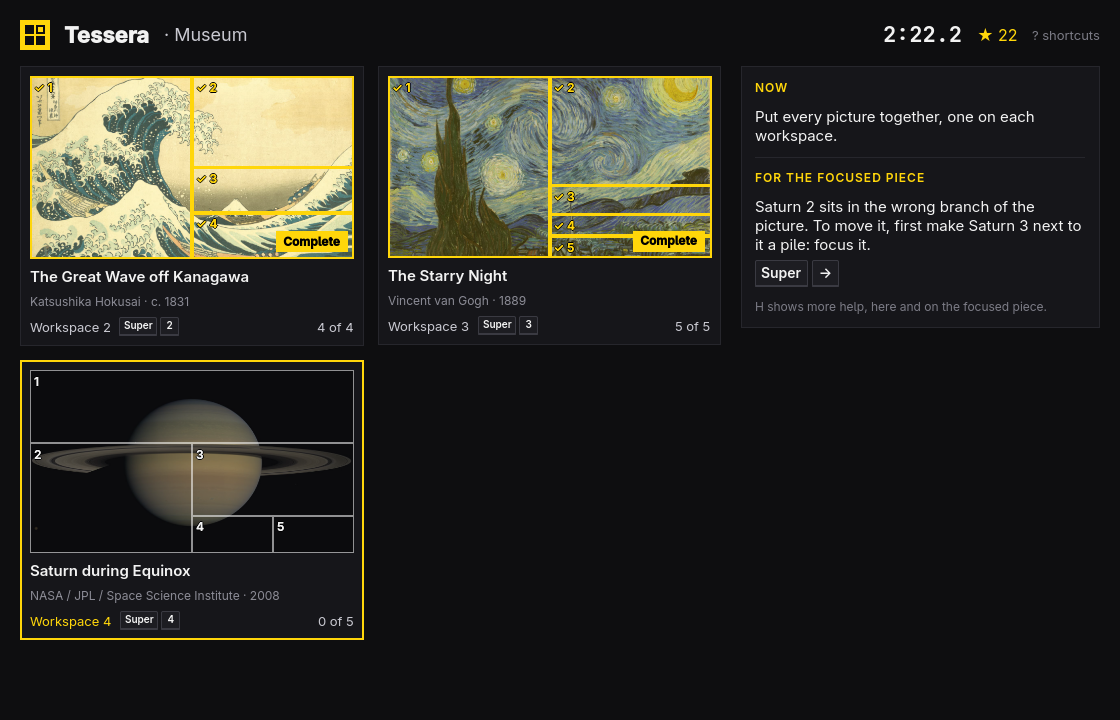
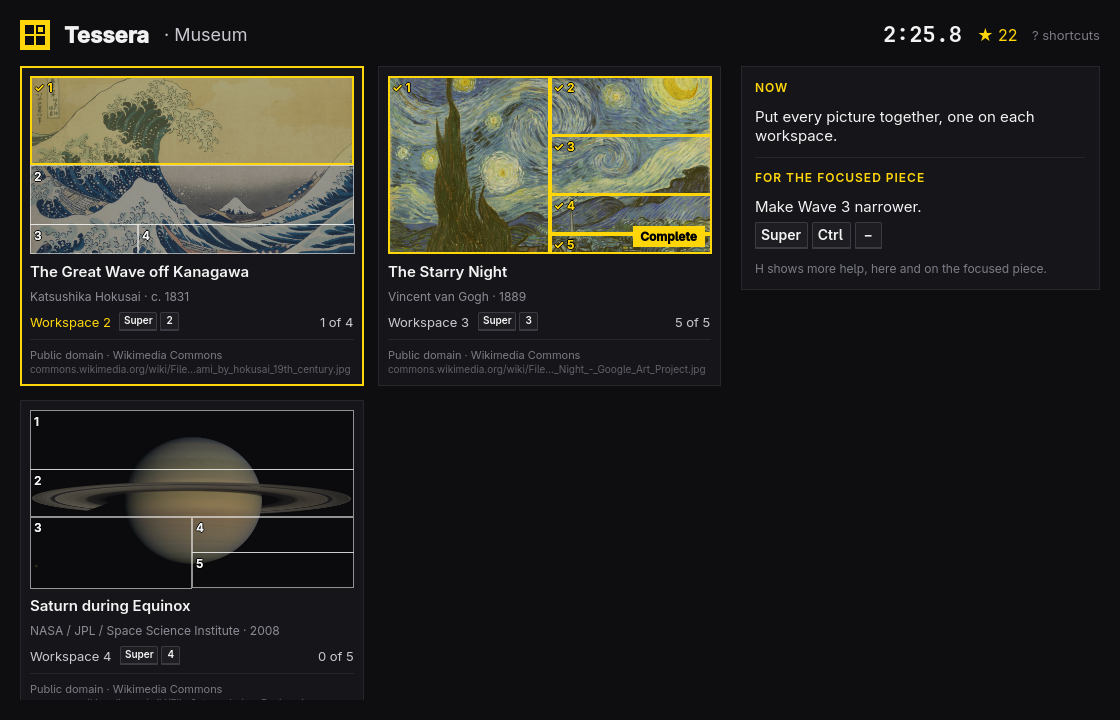
Document pictures, privacy and stats; release 0.2.0

diff --git a/README.md b/README.md
@@ -32,9 +32,23 @@ Lessons hold the answer back: first the goal, then what to do, then the keys,
 then why. Solve one before the keys show and you get three stars.
 
 Finish the lessons and the timed puzzles open: Gallery (two pictures),
-Exhibition (two pictures with turned splits, odd sizes and a pile) and
-Museum (three pictures, piles, the scratchpad and a stray piece from a
-picture that isn't there). Your best time for each is kept.
+Exhibition (two pictures with turned splits, odd sizes, a pile and the
+scratchpad) and Museum (three pictures, piles, the scratchpad and a stray
+piece from a picture that isn't there). Your best time for each is kept.
+
+Every Exhibition and Museum deal needs each family of moves at least once:
+swap, focus, a workspace switch, carrying a window to a workspace, turning
+a split, tiling a floating window, taking a pile apart, resizing both ways,
+and the scratchpad. The first split of the first picture is always turned
+against how dwindle deals it, a split each way is off centre, and that
+picture's own pieces arrive out of order; the tests check this over
+hundreds of seeds and play a dozen deals to the end to see every family
+turn up.
+
+**Practice weak spots** (in the menu once the lessons are done) deals a
+two-picture puzzle made of the moves your stats say you're least sure of:
+the two weakest families always, the others more often the weaker they are.
+Its keys show after a moment, or when you press H, so you get to try first.
 
 Every hint uses your own chords, read from `omarchy-menu-keybindings
 --print`, with Omarchy's defaults for anything you haven't bound.
@@ -45,6 +59,126 @@ The board's hint panel, and a strip on the focused piece, say what that piece
 needs right now: carry it to its workspace, tile it, pop it out of the pile,
 swap it towards its place, turn the split beside it, make it wider. Press H
 for more, Esc on a piece hides the strip.
+
+### Pictures from anywhere
+
+Press P in the menu to choose where pictures come from:
+
+| Source | What it is |
+|---|---|
+| Mixed (default) | The built-in works, museum art and your folder together |
+| Built-in | The five public-domain works compiled into Tessera; works offline |
+| Museums online | Public-domain art from the Art Institute of Chicago and the Met |
+| My folder | The JPEG, PNG and WebP files in one folder of yours |
+
+Every picture is made to the shape of the monitor the board is on (its
+size, scale, rotation and the bar's reserved strip, from `hyprctl -j
+monitors`), since the pieces stretch over tiles that fill that screen. A
+source image close enough to that shape (keeping at least 80% of it) is
+cropped to the middle; anything else becomes a collage of two to four
+images in justified rows or columns, every cell cropped to fit, with thin
+gutters. This runs off the UI thread. The board credits every work in a
+picture: title, artist, date, licence, where it's from and its page.
+
+Lessons always use the built-in works, so they play the same everywhere.
+
+### Online, and what it sends
+
+Online art is on by default; O in the pictures screen turns it off, and
+`TESSERA_OFFLINE=1` keeps Tessera off the network whatever the setting. The
+header says when it's going online, and to which museum.
+
+- It only talks HTTPS to `api.artic.edu`, `www.artic.edu`,
+  `collectionapi.metmuseum.org` and `images.metmuseum.org`, redirects
+  included, and only uses objects the museum flags public domain
+  (`is_public_domain`, `isPublicDomain`); both release those under CC0.
+- Each fetch is a handful of requests: one search, then one image per new
+  picture (at most six). Requests time out after 15 seconds and a whole
+  fetch after a minute; JSON is capped at 2 MB and images at 16 MB.
+- Fields are checked before use, and nothing a museum sends is put into a
+  URL or shown as markup. Images must be JPEG, PNG or WebP, between 400 and
+  12000 pixels a side, and are re-encoded by Tessera before they're kept.
+- The User-Agent is `Tessera/<version> (jigsaw puzzle)`; nothing about you,
+  your machine or your pictures is sent.
+- Downloads and rendered pictures live in `~/.cache/tessera/` (with a
+  `credits.json` index), written atomically and kept under 200 MB by
+  deleting what was used longest ago.
+
+Offline, or when the museums can't be reached, the puzzle uses the
+built-in pictures and the window says so.
+
+### Your own folder
+
+F in the pictures screen opens the desktop's folder chooser
+(xdg-desktop-portal). Tessera reads the JPEG, PNG and WebP files directly in
+it (not below it, at most 200), never writes to them, and never sends them
+anywhere. Pictures made from them are kept in memory only, not in the cache.
+The folder is remembered in `~/.local/state/tessera/settings.json`.
+
+### Your shortcut stats
+
+![The stats screen: a level, uses, accuracy and reaction time for each kind of move](docs/stats.png)
+
+S in the menu shows how you use each kind of move. Tessera can't see the
+keys (Hyprland takes every Super chord first), so it reads what each one
+did:
+
+- from Hyprland's events: switching workspace, carrying a window to a
+  workspace or the scratchpad, floating and tiling, grouping, going into
+  and out of a group, the next tab in a group, showing the scratchpad, and
+  focus;
+- from comparing the windows a poll apart: a swap, a turned split, and a
+  resize, with its direction and how far.
+
+Each move is judged against the hint at that moment: **right** when it's
+what the hint recommended or makes measurable progress (a piece home,
+tiled, in place, or a tile of the spiral holding the right piece), **looking
+around** when it's a focus or workspace move that brings the needed piece
+closer, and a **detour** when it undoes progress or doesn't help. For every
+kind of move Tessera keeps the uses, right / looking around / detours, how
+often its keys were on screen or you'd asked for help, the median time from
+the situation arising (the hint changing, or your last move) to the move,
+and when you last used it. Each run keeps its time and moves against par:
+the fewest changing moves the deal can take (looks don't count). They're in
+`~/.local/state/tessera/stats.json`; `progress.json` keeps its old shape.
+
+The level weighs being right and needing no help; volume only builds
+confidence in that:
+
+```
+n          = right + looking around + detours
+accuracy   = (right + looking around / 2) / n
+unaided    = 1 - (uses with its keys shown or after asking for help) / n
+pace       = clamp((8 s - median reaction) / 6.5 s, 0, 1)
+experience = 1 - e^(-n / 6)
+score      = 100 × experience × accuracy × (0.6 + 0.3 × unaided + 0.1 × pace)
+```
+
+Novice below 20, Learning from 20, Practised from 40, Fluent from 60, Master
+from 80. Always following shown keys tops out at Fluent, and being right
+half the time tops out at Practised however often you do it. Focus and swaps
+come up far more often than the rest, so the screen leads with the level,
+not the count. A solved puzzle's biggest piece shows moves against par and
+the kinds of move that went best and worst.
+
+What it can't tell apart:
+
+- A focus change made by clicking a window is only told from a keyboard one
+  by the pointer: Hyprland warps it to the middle of a window focused from
+  the keyboard (unless `cursor:no_warps` is set), so a pointer that moved
+  and rests elsewhere means the mouse. With warps off, or a click right in
+  the middle of a window, they look the same. Clicking a workspace in the
+  bar can't be told from Super+N if the pointer ends on a window's middle.
+- A swap or resize dragged with the mouse is left out the same way; one
+  made from the keyboard while the pointer also moved can be too.
+- Several resize presses inside one poll (a quarter second) read as one
+  longer resize; a held key that repeats is one move.
+- Alt+Tab and a directional focus that land on the same window look alike;
+  a move between tiles counts as directional, one involving a floating
+  window as Alt+Tab.
+- Moves made within a moment of the game acting (dealing, bringing the
+  board up) aren't counted, nor are moves from or to windows that aren't
+  pieces.
 
 ### How the cuts work
 
@@ -73,11 +207,15 @@ Quitting closes every piece; so does a crash, since they're its windows.
 |---|---|
 | Space | Start, deal, next |
 | H | More help for the focused piece |
+| S | Your shortcut stats (from the levels) |
+| P | Where pictures come from (from the levels) |
+| O | Online art on or off (in the pictures screen) |
+| F / X | Choose a folder / forget it (in the pictures screen) |
 | R | Deal the level again |
 | Esc | Back to the levels |
 | ? | Every shortcut, with your chords |
 | Q | Quit (asks first mid-puzzle) |
-| ↑ ↓ | Choose a level |
+| ↑ ↓ | Choose a level, a source, or scroll the stats |
 
 ## Building
 
@@ -90,13 +228,14 @@ bin/install    # builds the package and installs it
 Tessera needs Hyprland with the dwindle layout (Omarchy's default). It
 follows the Omarchy theme's accent, Hyprland's window rounding, and the
 language picked under Setup > Language (English, Danish and German so far).
-Progress is kept in `~/.local/state/tessera/progress.json`.
+Progress is kept in `~/.local/state/tessera/progress.json`, stats in
+`stats.json` and the picture settings in `settings.json` beside it.
 
 ## Credits
 
-The pictures are public domain works by Hokusai, Van Gogh, Monet, Bierstadt
-and NASA/JPL; [CREDITS.md](CREDITS.md) lists each with its source and
-licence. The package installs it beside the license in
+The built-in pictures are public domain works by Hokusai, Van Gogh, Monet,
+Bierstadt and NASA/JPL; [CREDITS.md](CREDITS.md) lists each with its source
+and licence. Museum art is credited on the board as it's shown. The package installs it beside the license in
 `/usr/share/licenses/tessera/`.
 
 ## License

diff --git a/CREDITS.md b/CREDITS.md
@@ -1,9 +1,11 @@
 # Credits
 
-Tessera's pictures are all in the public domain. Each one is compiled into
-the binary as a 1600 × 900 JPEG, centre-cropped to 16:9 and downscaled from
-the Wikimedia Commons file named below. The licence of each was checked on
-its Commons file page.
+Tessera's built-in pictures are all in the public domain. Each one is
+compiled into the binary as a 1600 × 900 JPEG, centre-cropped to 16:9 and
+downscaled from the Wikimedia Commons file named below. The licence of each
+was checked on its Commons file page. At play they are cropped or put into
+a collage to fit the monitor's shape; that changes nothing about their
+status.
 
 | Picture | Creator | Date | Source | Licence |
 |---|---|---|---|---|
@@ -15,5 +17,18 @@ its Commons file page.
 
 NASA's use of the image does not imply NASA's endorsement of Tessera.
 
+## Museum art
+
+With online art on, Tessera fetches works the Art Institute of Chicago
+(https://api.artic.edu) and the Metropolitan Museum of Art
+(https://metmuseum.github.io) flag as public domain, which both museums
+release under CC0. Nothing of theirs ships with Tessera; each work's title,
+artist, date, licence and page are shown on the board while it's played and
+kept in `~/.cache/tessera/credits.json`. Using their open-access APIs does
+not imply either museum's endorsement of Tessera.
+
 The app's code is under the MIT License (see `LICENSE`). Its theme watching
 and shape follow Omacut and Monologue by David Heinemeier Hansson, also MIT.
+`src/filepicker.h` and `src/portalfilepicker.{h,cpp}` are adapted from
+Omacut's (https://github.com/omacom-io/omacut, MIT, by David Heinemeier
+Hansson) to choose a folder.
